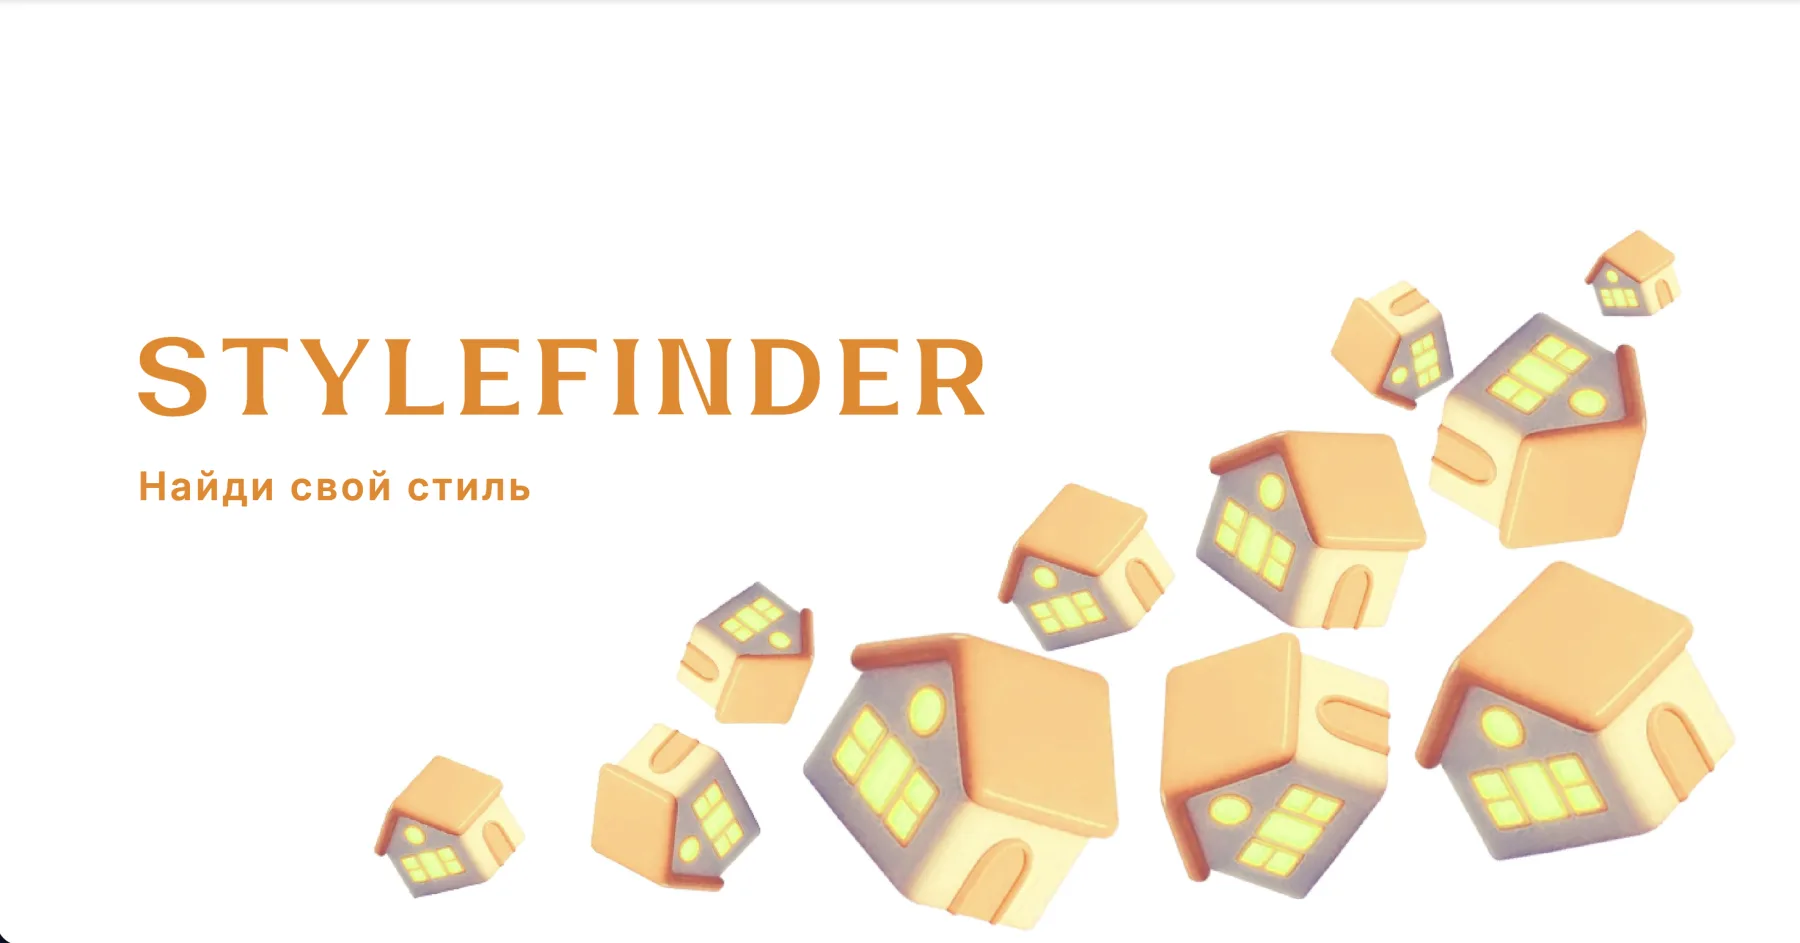
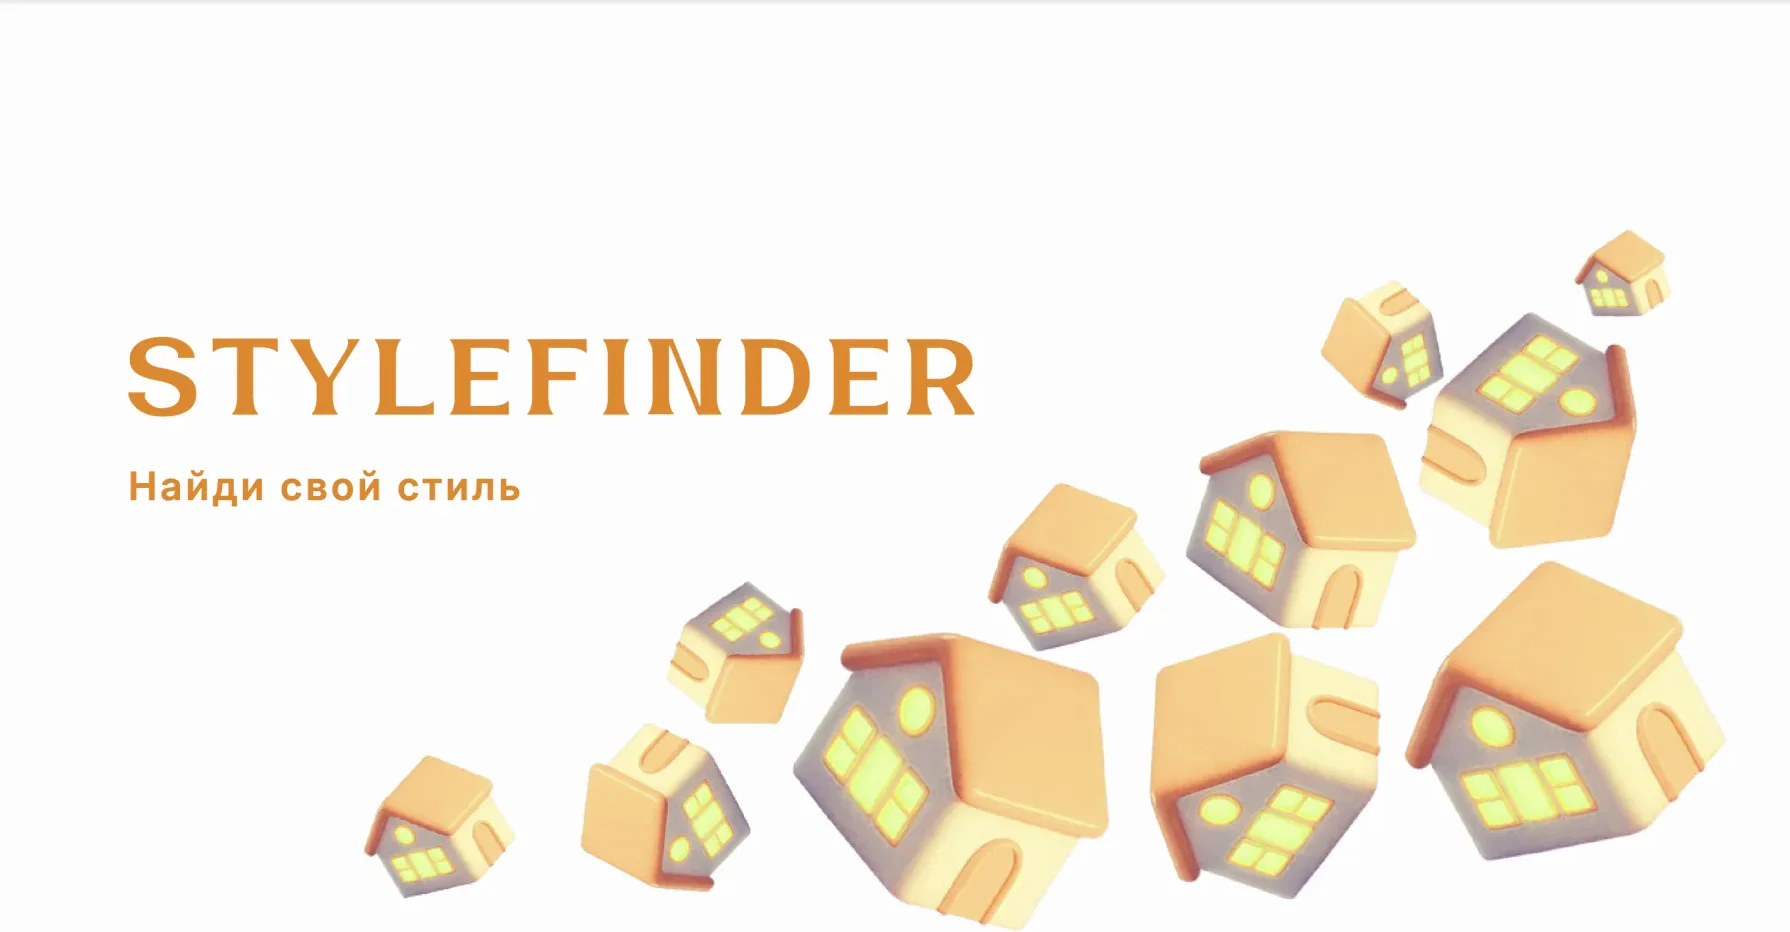
Stylefinder: drop placeholder illustrations, rebalance gallery
- Remove the two "not the planner UI" illustrations and their files;
  heading back to "Экраны Stylefinder"
- Wide intro screen spans both gallery columns above the other two
- Trim a dark window-corner sliver off the intro screenshot

diff --git a/cases/stylefinder.html b/cases/stylefinder.html
@@ -179,9 +179,16 @@
             <div class="case-gallery__inner">
                 <div class="case-gallery__head" data-reveal>
                     <p class="eyebrow eyebrow--on-light">Материалы</p>
-                    <h2 class="section__title section__title--sm">Экраны и материалы</h2>
+                    <h2 class="section__title section__title--sm">Экраны Stylefinder</h2>
                 </div>
                 <div class="case-gallery__grid">
+                    <figure class="case-gallery__wide" data-reveal>
+                        <div class="case-gallery__media">
+                            <img data-src="../img/cases/stylefinder/stylefinder-intro.webp" alt="Стартовый экран Stylefinder" decoding="async">
+                            <noscript><img src="../img/cases/stylefinder/stylefinder-intro.webp" alt="Стартовый экран Stylefinder"></noscript>
+                        </div>
+                        <figcaption>Найди свой стиль — стартовый экран · Stylefinder</figcaption>
+                    </figure>
                     <figure data-reveal>
                         <div class="case-gallery__media">
                             <img data-src="../img/cases/stylefinder/stylefinder-result.webp" alt="Результат подбора стиля: пример спальни, Stylefinder" decoding="async">
@@ -195,27 +202,6 @@
                             <noscript><img src="../img/cases/stylefinder/stylefinder-quiz.webp" alt="Тест визуальных предпочтений в Stylefinder: природа или техно"></noscript>
                         </div>
                         <figcaption>Тест визуальных предпочтений · экран Stylefinder</figcaption>
-                    </figure>
-                    <figure data-reveal>
-                        <div class="case-gallery__media">
-                            <img data-src="../img/cases/stylefinder/stylefinder-intro.webp" alt="Стартовый экран Stylefinder" decoding="async">
-                            <noscript><img src="../img/cases/stylefinder/stylefinder-intro.webp" alt="Стартовый экран Stylefinder"></noscript>
-                        </div>
-                        <figcaption>Найди свой стиль — стартовый экран · Stylefinder</figcaption>
-                    </figure>
-                    <figure data-reveal>
-                        <div class="case-gallery__media">
-                            <img data-src="../img/cases/stylefinder/stylefinder-eco-living-room.webp" alt="Иллюстрация интерьера комнаты, проект Stylefinder" decoding="async">
-                            <noscript><img src="../img/cases/stylefinder/stylefinder-eco-living-room.webp" alt="Иллюстрация интерьера комнаты, проект Stylefinder"></noscript>
-                        </div>
-                        <figcaption>Иллюстративный материал проекта · не интерфейс планировщика</figcaption>
-                    </figure>
-                    <figure data-reveal>
-                        <div class="case-gallery__media">
-                            <img data-src="../img/cases/stylefinder/stylefinder-eco-workspace.webp" alt="Иллюстрация рабочего пространства, проект Stylefinder" decoding="async">
-                            <noscript><img src="../img/cases/stylefinder/stylefinder-eco-workspace.webp" alt="Иллюстрация рабочего пространства, проект Stylefinder"></noscript>
-                        </div>
-                        <figcaption>Иллюстративный материал проекта · не интерфейс планировщика</figcaption>
                     </figure>
                 </div>
             </div>

diff --git a/css/style.css b/css/style.css
@@ -2063,6 +2063,11 @@ h1, h2, h3, h4 {
     border-top: 1px solid var(--clr-hairline);
 }
 
+/* A wide screenshot can span both columns above the pair below it */
+.case-gallery__wide {
+    column-span: all;
+}
+
 @media (max-width: 620px) {
     .case-gallery__grid { columns: 1; }
 }
